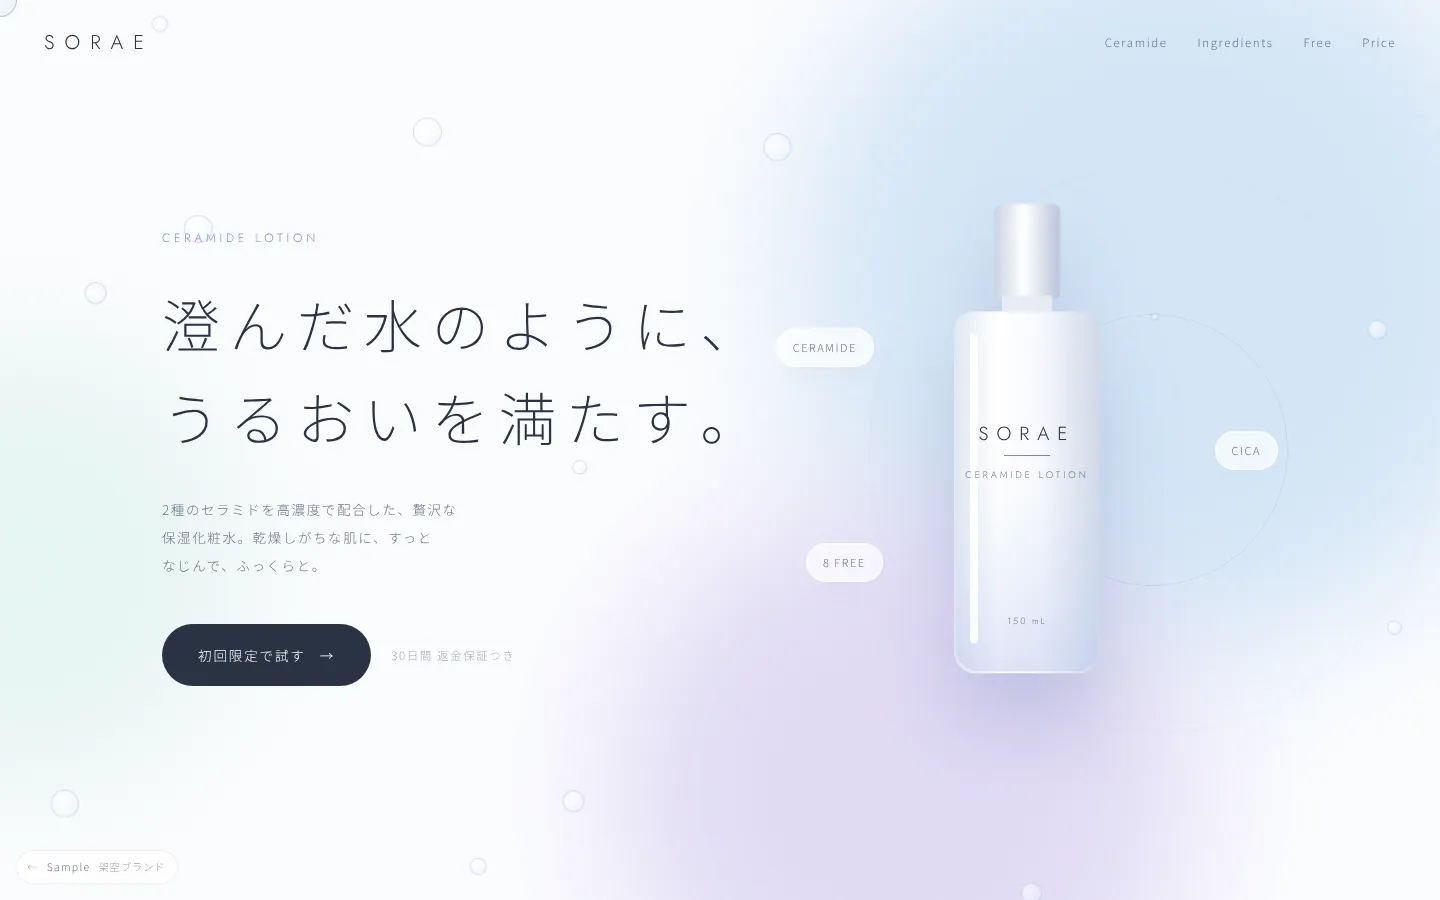
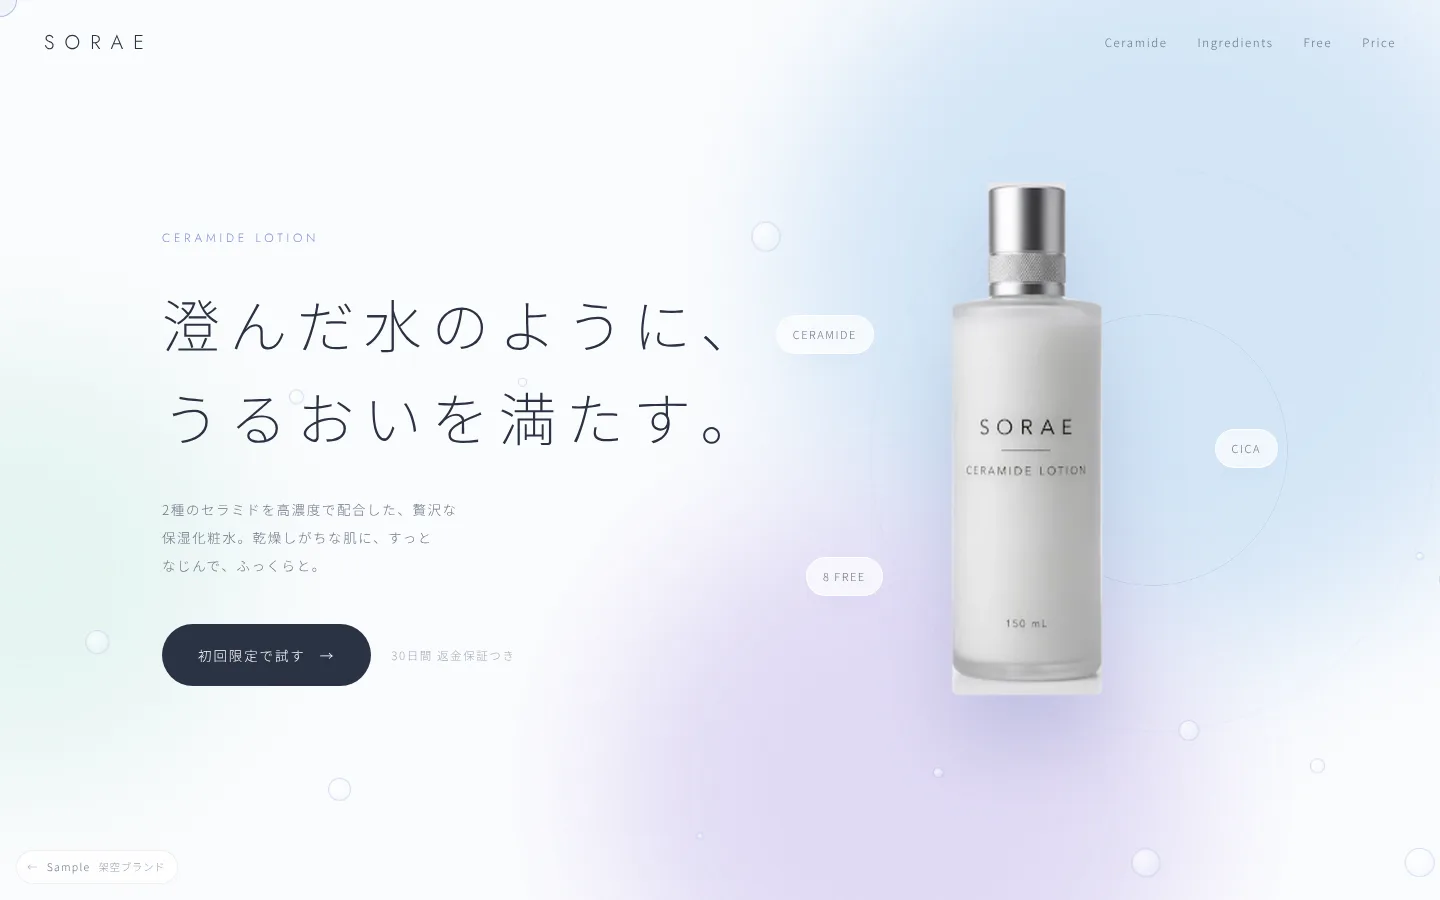
SORAE: ボトルを実写の切り抜き画像に差し替え
Claude-Session: https://claude.ai/code/session_011G5VfBtan1DrH8gQ92yT6T

diff --git a/works/lp-lotion/index.html b/works/lp-lotion/index.html
@@ -50,8 +50,8 @@ header nav{display:flex;gap:30px;font-size:11.5px;color:var(--ink2)}
 .hero .cta{margin-top:44px;display:flex;align-items:center;gap:20px;flex-wrap:wrap;opacity:0;transition:opacity 1.4s .9s}
 .hero .cta small{font-size:11.5px;color:var(--sub)}
 .bwrap{position:relative;display:flex;justify-content:center}
-.bwrap svg{filter:drop-shadow(0 50px 40px rgba(80,100,160,.22));animation:fl 7s ease-in-out infinite;opacity:0;transform:translateY(40px);transition:opacity 1.6s .3s,transform 1.6s .3s}
-.on .bwrap svg{opacity:1;transform:none}
+.bwrap .btl{height:min(66vh,520px);width:auto;filter:drop-shadow(0 50px 40px rgba(80,100,160,.22));animation:fl 7s ease-in-out infinite;opacity:0;transform:translateY(40px);transition:opacity 1.6s .3s,transform 1.6s .3s}
+.on .bwrap .btl{opacity:1;transform:none}
 @keyframes fl{50%{translate:0 -14px}}
 .tags{position:absolute;inset:0}
 .tags span{position:absolute;font-size:11px;letter-spacing:.14em;color:var(--ink2);background:rgba(255,255,255,.7);backdrop-filter:blur(10px);-webkit-backdrop-filter:blur(10px);border:1px solid rgba(255,255,255,.9);border-radius:99px;padding:7px 16px;box-shadow:0 10px 30px -18px rgba(60,80,140,.4)}
@@ -142,14 +142,14 @@ footer .logo{font-size:16px;color:var(--ink);margin-bottom:6px}
 .fb{position:fixed;left:50%;bottom:calc(16px + env(safe-area-inset-bottom,0px));transform:translate(-50%,120px);transition:transform .6s cubic-bezier(.19,1,.22,1);z-index:40}
 .fb.on{transform:translate(-50%,0)}
 .fb .btn{white-space:nowrap;box-shadow:0 18px 40px -16px rgba(42,50,67,.6)}
-@media (prefers-reduced-motion:reduce){*{animation:none!important}.rv,.hero h1 span b,.hero p.lead,.hero .cta,.bwrap svg{opacity:1!important;transform:none!important;transition:none!important}}
+@media (prefers-reduced-motion:reduce){*{animation:none!important}.rv,.hero h1 span b,.hero p.lead,.hero .cta,.bwrap .btl{opacity:1!important;transform:none!important;transition:none!important}}
 @media (max-width:860px){
  .sample{left:auto;right:14px;top:22px;bottom:auto;padding:4px 10px}.sample span{display:none}
  .hero h1{font-size:clamp(24px,7.4vw,32px);letter-spacing:.1em}.hero h1 span b{white-space:nowrap}
  .w{padding:0 24px}header{top:28px}header .w{padding:0 24px}header nav{display:none}
  .hero .w{grid-template-columns:1fr;text-align:center;padding-top:100px;padding-bottom:70px}
  .hero p.lead{margin-left:auto;margin-right:auto}.hero .cta{justify-content:center}
- .bwrap{order:-1;margin-bottom:10px}.bwrap svg{width:150px;height:auto}
+ .bwrap{order:-1;margin-bottom:10px}.bwrap .btl{height:300px;width:auto}
  .tags span{font-size:10px;padding:5px 11px}.tags span:nth-child(1){left:2%}.tags span:nth-child(2){right:2%}
  .ripple{right:50%;top:30%;width:340px;height:340px;margin:-170px -170px 0 0}
  section{padding:110px 0}.sh{margin-bottom:50px}
@@ -232,22 +232,7 @@ footer .logo{font-size:16px;color:var(--ink);margin-bottom:6px}
   </div>
   <div class="bwrap par" id="bw" aria-hidden="true">
    <div class="tags par" id="tg"><span>CERAMIDE</span><span>CICA</span><span>8 FREE</span></div>
-   <svg width="190" height="470" viewBox="0 0 190 470">
-    <defs>
-     <linearGradient id="bt" x1="0" x2="1"><stop offset="0" stop-color="#dfe6f2"/><stop offset=".3" stop-color="#fff"/><stop offset=".6" stop-color="#f6f8fc"/><stop offset="1" stop-color="#cfd8ea"/></linearGradient>
-     <linearGradient id="cp" x1="0" x2="1"><stop offset="0" stop-color="#c9d2e4"/><stop offset=".45" stop-color="#fff"/><stop offset="1" stop-color="#b8c3da"/></linearGradient>
-     <linearGradient id="lq" x1="0" x2="0" y1="0" y2="1"><stop offset="0" stop-color="#cfe3f5" stop-opacity=".0"/><stop offset="1" stop-color="#b9c4ef" stop-opacity=".45"/></linearGradient>
-    </defs>
-    <rect x="62" y="0" width="66" height="96" rx="8" fill="url(#cp)"/>
-    <rect x="70" y="92" width="50" height="16" fill="#e6ebf4"/>
-    <path d="M40 108h110c10 0 18 8 18 18v322c0 12-10 22-22 22H44c-12 0-22-10-22-22V126c0-10 8-18 18-18z" fill="url(#bt)"/>
-    <path d="M24 260h142v186c0 12-10 22-22 22H46c-12 0-22-10-22-22z" fill="url(#lq)"/>
-    <rect x="38" y="130" width="8" height="310" rx="4" fill="#fff" opacity=".9"/>
-    <text x="95" y="236" text-anchor="middle" font-family="Jost,sans-serif" font-weight="300" font-size="19" letter-spacing="8" fill="#2a3243">SORAE</text>
-    <line x1="72" y1="252" x2="118" y2="252" stroke="#2a3243" stroke-width=".6"/>
-    <text x="95" y="274" text-anchor="middle" font-family="Jost,sans-serif" font-weight="300" font-size="9.5" letter-spacing="3" fill="#6b7488">CERAMIDE LOTION</text>
-    <text x="95" y="420" text-anchor="middle" font-family="Jost,sans-serif" font-weight="300" font-size="9" letter-spacing="2" fill="#6b7488">150 mL</text>
-   </svg>
+   <img class="btl" src="bottle.webp" width="363" height="1205" alt="SORAE セラミドローション 150mL">
   </div>
  </div>
 </section>
